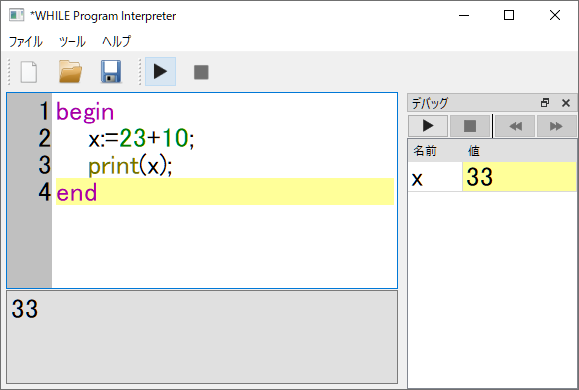
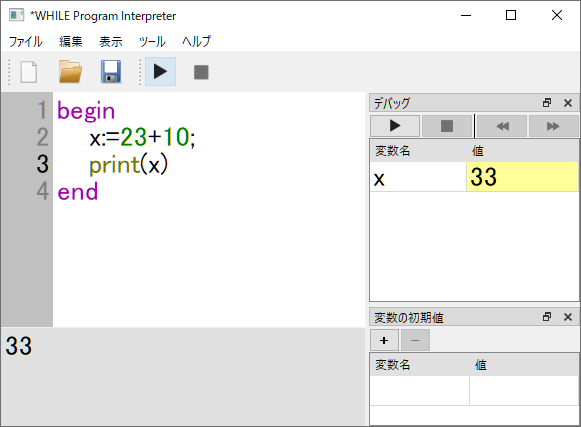
v1.3.7-release

diff --git a/sources/QCodeEditor.py b/sources/QCodeEditor.py
@@ -237,6 +237,8 @@ class QCodeEditor(QPlainTextEdit):
         # find word
         self.keypos = 0
         self.keyword = ""
+        self.find_index = -1
+        self.find_length = -1
 
         
     def mouseReleaseEvent(self, event):
@@ -559,35 +561,53 @@ class QCodeEditor(QPlainTextEdit):
 
 
 
-    def set_find_word(self, keyword, addpos=0, initflag=True):
+    def set_find_word(self, keyword, addpos=0, keypos_clear=True):
         # addpos
         # 1 or -1: self.keypos += addpos
+        # self.keypos は -1, 1,2,3,4,... という順番。
+        # -1 は「最終」match を意味する。
+        # 0 は unmatched とし、このときは matched が yellow で表示され、
+        # darkYellow で表示される keypos は存在しない。
         #
-        # initflag:
+        # keypos_clear:
         # True : 初期状態（self.keypos = 0）にし、カレントへ移動しない
         # False: self.keypos に従い、カレントも移動
+        #
+        # return: match した個数
         
         if keyword:
             self.findWordPattern = QRegExp(keyword)
+            self.length = len(keyword)
+            
         else:
+            # 初期化
             self.findWordPattern = None
             self.keypos = 0
+            self.length = -1
+            self.index = -1
 
             self.setExtraSelections([])
             cursor = self.textCursor()
             cursor.clearSelection()
             self.setTextCursor(cursor)                
             
-            return
+            return 0
+        
 
-        if initflag:
+        if keypos_clear:
             self.keypos = 0
+            
         else:
             if addpos > 0:
-                self.keypos += 1
-            else:
+                # カレントがない状態のときには keypos を 1 に
+                if self.keypos == 0:
+                    self.keypos = 1
+                else:
+                    self.keypos += 1
+                    
+            elif addpos < 0:
                 self.keypos -= 1
-                if self.keypos < 0:
+                if self.keypos < 1:
                     # -1 は最後の該当箇所という意味で使う
                     self.keypos = -1
 
@@ -629,32 +649,38 @@ class QCodeEditor(QPlainTextEdit):
 
 
             if matched_positions == []:
-                return
+                return len(matched_positions)
 
-            if initflag:
+            if keypos_clear or self.keypos == 0:
                 self.setExtraSelections(extraSelections)
-                return
+                return len(matched_positions)
 
             
             # 現在 match 場所のハイライト処理
             try:
-                if self.keypos >= 0:
-                    index = matched_positions[self.keypos]
+                if self.keypos > 0:
+                    self.index = matched_positions[self.keypos-1]
                     
                 else:
                     # 最後に match した場所
-                    self.keypos = len(matched_positions)-1
-                    index = matched_positions[self.keypos]
+                    self.keypos = len(matched_positions)
+                    self.index = matched_positions[self.keypos-1]
 
             except:
-                self.keypos = 0
-                index = matched_positions[self.keypos]
+                if len(matched_positions) >= 1:
+                    self.keypos = 1
+                    self.index = matched_positions[self.keypos-1]
+                else:
+                    self.keypos = 0
+                    self.setExtraSelections(extraSelections)
+                    return len(matched_positions)
+                    
 
                 
             selection = QTextEdit.ExtraSelection()
             selection.format.setBackground(QColor(Qt.darkYellow))
             selection.cursor = self.textCursor()
-            selection.cursor.setPosition(index)
+            selection.cursor.setPosition(self.index)
             selection.cursor.movePosition(QTextCursor.NextCharacter,
                                           QTextCursor.KeepAnchor, length)
             self.setTextCursor(selection.cursor)                
@@ -663,9 +689,36 @@ class QCodeEditor(QPlainTextEdit):
                 
 
             self.setExtraSelections(extraSelections)
-            
+            return len(matched_positions)
+
+
+        
+    def replace_word(self, find_word, replace_word, all_flag=False):
+        if all_flag:
+            oldtext = self.document().toPlainText()
+            newtext = oldtext.replace(find_word, replace_word)
+            self.setPlainText(newtext)
+            self.document().setModified(True)
+            return
+        
+        
+        if self.keypos == 0:
+            self.set_find_word(find_word, addpos=1, keypos_clear=False)
+            return
+
+        
+        matched = self.set_find_word(find_word, addpos=0, keypos_clear=False)
+        if matched > 0:
+            cursor = self.textCursor()
+            cursor.setPosition(self.index)
+            cursor.movePosition(QTextCursor.NextCharacter,
+                                QTextCursor.KeepAnchor, self.length)
+            cursor.insertText(replace_word)
+            self.document().setModified(True)
+            self.set_find_word(find_word, addpos=0, keypos_clear=False)
         
 
+            
     def clearHighlightLine(self):
 
         if self.hlineno > 0:

diff --git a/sources/PresetEnv.py b/sources/PresetEnv.py
@@ -13,7 +13,7 @@ class SimpleTableModel(QAbstractTableModel):
         super().__init__(parent)
         
         self.title = ["変数名", "値"]
-        self.mydata = [["",""],["",""],["",""]]
+        self.mydata = [["",""]]
 
         self.checker = SyntaxChecker()
         self.reg_variable = re.compile('[a-zA-Z_][a-zA-Z0-9_]*', re.I)
@@ -22,7 +22,7 @@ class SimpleTableModel(QAbstractTableModel):
         
         
     def init_data(self):
-        self.mydata = [["",""],["",""],["",""]]
+        self.mydata = [["",""]]
 
 
         

diff --git a/README.md b/README.md
@@ -3,9 +3,7 @@
 ![screenshot](pic/screenshot1.png)
 
 これを使うと、書籍「チューリングの考えるキカイ ～人工知能の父に学ぶコンピュータ・サイエンスの基礎」
-（阿部彩芽・笠井琢美 著、技術評論社）で使われている whileプログラムが実行できます。
-なお、このインタプリタは書籍のファンである作者が勝手に作成したものであり、
-書籍の著者ら、出版社とはなんの関係もありません。
+（阿部彩芽・笠井琢美 著、技術評論社）で仮想プログラミング言語として使われている whileプログラムが実行できます。なお、このインタプリタは書籍のファンである作者が勝手に作成したものであり、書籍の著者ら、出版社とはなんの関係もありません。
 
 書籍のサイト：https://gihyo.jp/book/2018/978-4-7741-9689-3
 
@@ -40,10 +38,10 @@ pip install PySide2 ply
 
 ### Windows10 向け実行ファイル
 Windows10(64bit)版向けにコンパイル済みの実行ファイルを用意しています。
-右側の「Releases」 v1.3.5 のリリースから while-v1.3.5-release-Win10-64bit.zip を入手し、
-展開してから  while-v1.3.5-release-Win10-64bit.exe をダブルクリックして使ってください。
+右側の「Releases」 v1.3.7 のリリースから while-v1.3.7-release-Win10-64bit.zip を入手し、
+展開してから  while-v1.3.7-release-Win10-64bit.exe をダブルクリックして使ってください。
 下記リンクからも入手できます：
-https://github.com/sintan310/while-interpreter/releases/download/v1.3.5-release/while-v1.3.5-release-Win10-64bit.zip
+https://github.com/sintan310/while-interpreter/releases/download/v1.3.7-release/while-v1.3.7-release-Win10-64bit.zip
 
 
 
@@ -154,7 +152,7 @@ end
 
 - 配列には鍵かっこを使います。例えば、3,6,8 を要素とする配列は
   ```[3,6,8]```
-  と書きます。配列の長さを取得する手続きは、そのうち実装します。
+  と書きます。
 
 - 文字、文字列について：
     - 文字、文字列は「"」で囲みます。例えば、文字列 hello は ```"hello"```
@@ -167,18 +165,6 @@ end
       ```"abc" + 123```
       の結果は、```"abc123"``` となります。
 
-    - 文字列の長さ（文字数）の取得、配列の長さ（要素数）の取得には手続き len を使ってください（組み込み手続きとして実装しています）。
-```
-begin
-  # "abc" は3文字の文字列なので、x には 3 が代入される
-  x:=len("abc");
-
-  # 配列 [1,1,1,1] の要素数は 4 つなので、y には 4 が代入される
-  y:=len([1,1,1,1]);
-
-  print(x,y); # 3, 4 となるはず
-end
-```
 
 - 部分文字列取得には ```left```, ```right```, ```mid``` が使えます（組み込み手続きとして実装してます）：
     - ```left(str, n)```    str の左から n 文字を取得します。
@@ -198,15 +184,29 @@ end
 ```
 
 
+- 文字列の長さ（文字数）の取得、配列の長さ（要素数）の取得には手続き len を使ってください（組み込み手続きとして実装しています）。
+
+```
+begin
+  # "abc" は3文字の文字列なので、x には 3 が代入される
+  x:=len("abc");
+
+  # 配列 [1,1,1,1] の要素数は 4 つなので、y には 4 が代入される
+  y:=len([1,1,1,1]);
+
+  print(x,y); # 3, 4 となるはず
+end
+```
+
 - whileプログラムの文として「空文」を認めています。そのため、複合文
-```begin s1;s2; ... ;sm end```
-を、
-```begin s1;s2; ... ;sm; end```
-として書けます（つまり、最後の文 sm にセミコロンを付けてもエラーになりません）。
+  ```begin s1;s2; ... ;sm end```
+  を、
+  ```begin s1;s2; ... ;sm; end```
+  として書けます（つまり、最後の文 sm にセミコロンを付けてもエラーになりません）。
 - whileプログラムの文は 1行で書いてください。
 　なお、begin ～ end の間は、改行しても1行の文として解釈されます。
-- 手続きは、書籍では構文糖として導入されていますが、いわゆる普通のプログラミング言語の「手続き」として実装しています。
-  なお、書籍での動作と合わせるため、引数に変数を指定して手続きを呼び出すと、手続き内での変更が呼び出し元にも反映されるようにしてます。
+- 手続きは、書籍ではマクロ（構文糖）として導入されていますが、いわゆる普通のプログラミング言語の「手続き」として実装しています。
+  なお、書籍での動作と合わせるため、手続きの引数に変数を指定して呼び出すと、手続き内での変更が呼び出し元にも反映されるようにしてます。
   例えば、次に示す手続き ```foo``` によって、変数 ```x``` は ```11``` になります：
 
 ```
@@ -222,10 +222,7 @@ begin
 end
 ```
 
-
-
-引数に与えられた変数の値を交換する手続き swap は
-次のようにして書けます：
+- 手続きの引数として変数を指定すると、手続き内で行われた変更がその変数にも反映されますので、引数に与えられた変数の値を交換する手続き swap は次のようにして書けます：
 
 ```
 procedure z:=swap(a,b): begin
@@ -265,7 +262,7 @@ begin
     print(x);   # 100 が表示されるはず
 
     # ちなみに、procedure は式として扱われるようにしてあるので
-    # print(oneUp(200)) として実行すると 201 が返ってくる
+    # print の引数に指定して print(oneUp(200)) としても実行できる
     print(oneUp(200))
 end
 ```
@@ -495,30 +492,30 @@ procedure z:=quicksort(list): begin
         while i<length do begin
             val := list[i];
             if val < pivot then begin
-                list1:= list1 + [val];
+                list1 := list1 + [val];
             end
             else begin
-                list2:= list2 + [val];
+                list2 := list2 + [val];
             end;
             i++;            
         end;
         sorted1 := quicksort(list1);
         sorted2 := quicksort(list2);
-        z:=sorted1 + [pivot] + sorted2;
+        z := sorted1 + [pivot] + sorted2;
                                     
     end    
 end
 
 
 begin
-    ret:=quicksort([5,10,4,12,1,6]);
+    ret := quicksort([5,10,4,12,1,6]);
     print(ret)  
 end
 ```
 
 
 
-## クイックソート（append も手書きで苦労する版）
+## クイックソート（append など自前で管理して苦労する版）
 
 ```
 procedure z:=append(a,b): begin

diff --git a/changelog.md b/changelog.md
@@ -1,5 +1,12 @@
 # 変更履歴
 
+2021-07-03
+- 置換機能を実装し、編集メニューに加えた。
+- [TODO エディタ関連]
+	- エラー行を分かりやすく表示したい
+
+
+
 2021-07-02
 
 - v1.3.6 としてリリース
